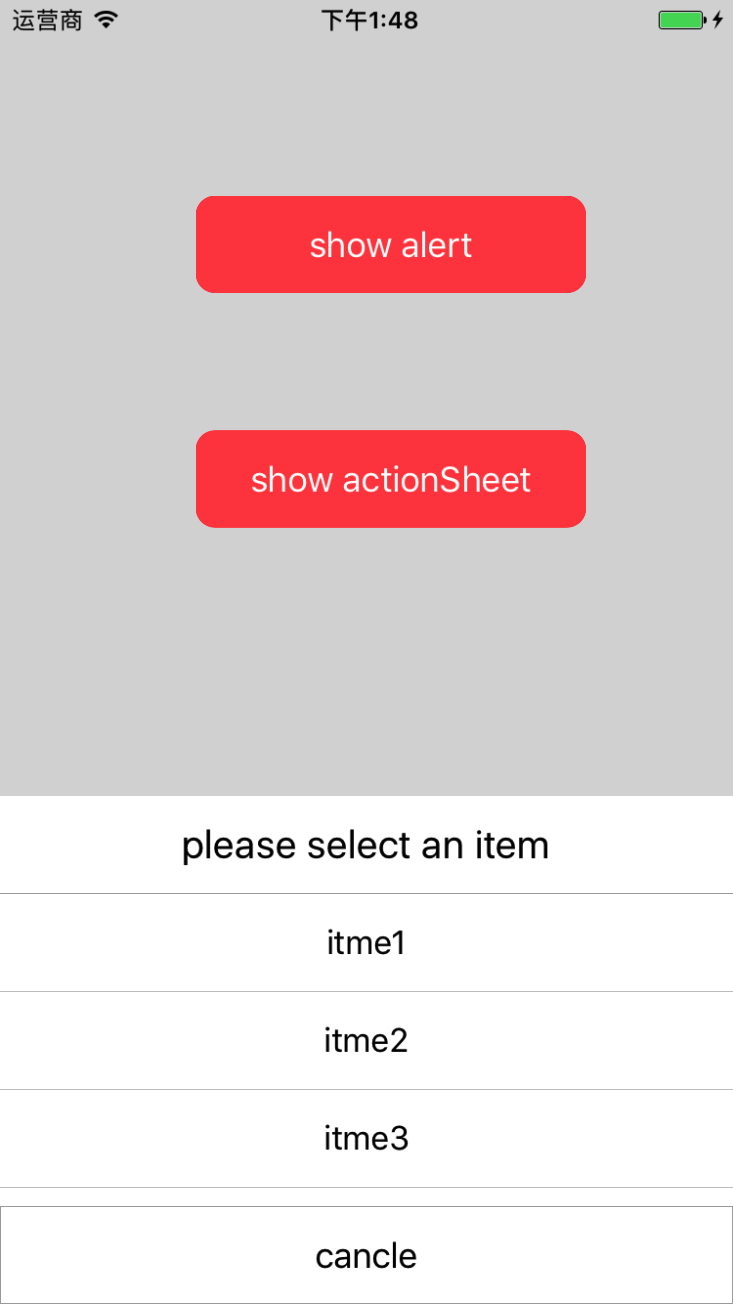
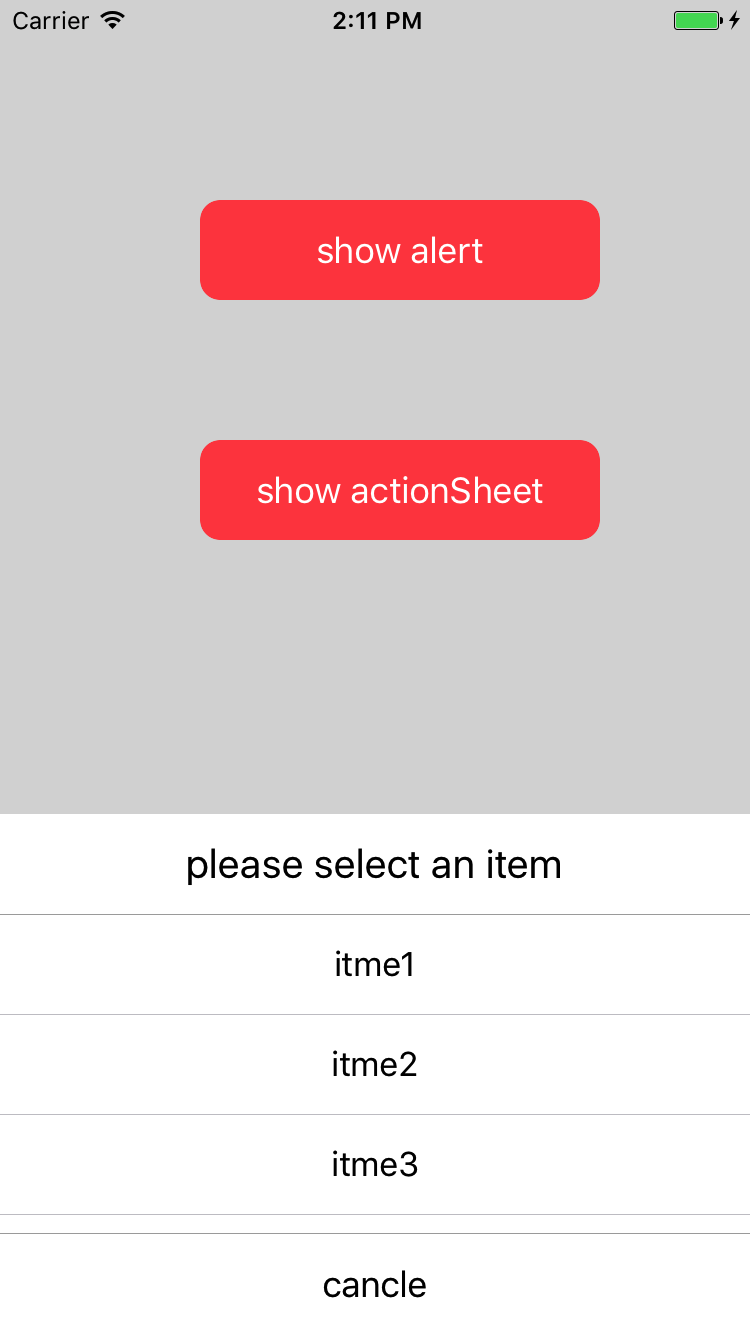
fix actionSheet
fix actionSheet

Changed region(s): [[0.0, 0.0, 0.1801, 0.0307], [0.4502, 0.0, 0.5703, 0.0307], [0.9905, 0.9202, 1.0, 1.0]]

diff --git a/ZZPopView/ZZActionSheetView.swift b/ZZPopView/ZZActionSheetView.swift
@@ -117,12 +117,18 @@ public class ZZActionSheetView: UIView,UITableViewDelegate,UITableViewDataSource
             make.height.equalTo(tableviewHeight)
         })
         
+        let btnUpLineView = UIView.init(frame: CGRect.init())
+        btnUpLineView.backgroundColor = UIColor.lightGray
+        self.addSubview(btnUpLineView)
+        
+        let btnDownLineView = UIView.init(frame: CGRect.init())
+        btnDownLineView.backgroundColor = UIColor.lightGray
+        self.addSubview(btnDownLineView)
+        
         self.cancleBtn = UIButton.init(type: .custom)
         self.cancleBtn?.setTitle("cancle", for: .normal)
         self.cancleBtn?.backgroundColor = .white
         self.cancleBtn?.setTitleColor(UIColor.black, for: .normal)
-        self.cancleBtn?.layer.borderWidth = 0.3
-        self.cancleBtn?.layer.borderColor = UIColor.lightGray.cgColor
         self.cancleBtn?.addTarget(self, action: #selector(self.cancleAction(sender:)), for: .touchUpInside)
         self.addSubview(self.cancleBtn!)
         
@@ -130,6 +136,18 @@ public class ZZActionSheetView: UIView,UITableViewDelegate,UITableViewDataSource
             make.left.right.equalTo(self)
             make.height.equalTo(cancleBtnHeight)
             make.bottom.equalTo(self.snp.bottom).offset(0)
+        }
+        
+        btnUpLineView.snp.makeConstraints { (make) in
+            make.left.right.equalTo(self)
+            make.height.equalTo(0.3)
+            make.bottom.equalTo((self.cancleBtn?.snp.top)!)
+        }
+        
+        btnDownLineView.snp.makeConstraints { (make) in
+            make.left.right.equalTo(self)
+            make.height.equalTo(0.3)
+            make.bottom.equalTo(self.snp.bottom)
         }
         
     }

diff --git a/ZZPopViewDemo/ZZPopView/ZZActionSheetView.swift b/ZZPopViewDemo/ZZPopView/ZZActionSheetView.swift
@@ -117,12 +117,18 @@ public class ZZActionSheetView: UIView,UITableViewDelegate,UITableViewDataSource
             make.height.equalTo(tableviewHeight)
         })
         
+        let btnUpLineView = UIView.init(frame: CGRect.init())
+        btnUpLineView.backgroundColor = UIColor.lightGray
+        self.addSubview(btnUpLineView)
+        
+        let btnDownLineView = UIView.init(frame: CGRect.init())
+        btnDownLineView.backgroundColor = UIColor.lightGray
+        self.addSubview(btnDownLineView)
+        
         self.cancleBtn = UIButton.init(type: .custom)
         self.cancleBtn?.setTitle("cancle", for: .normal)
         self.cancleBtn?.backgroundColor = .white
         self.cancleBtn?.setTitleColor(UIColor.black, for: .normal)
-        self.cancleBtn?.layer.borderWidth = 0.3
-        self.cancleBtn?.layer.borderColor = UIColor.lightGray.cgColor
         self.cancleBtn?.addTarget(self, action: #selector(self.cancleAction(sender:)), for: .touchUpInside)
         self.addSubview(self.cancleBtn!)
         
@@ -130,6 +136,18 @@ public class ZZActionSheetView: UIView,UITableViewDelegate,UITableViewDataSource
             make.left.right.equalTo(self)
             make.height.equalTo(cancleBtnHeight)
             make.bottom.equalTo(self.snp.bottom).offset(0)
+        }
+        
+        btnUpLineView.snp.makeConstraints { (make) in
+            make.left.right.equalTo(self)
+            make.height.equalTo(0.3)
+            make.bottom.equalTo((self.cancleBtn?.snp.top)!)
+        }
+        
+        btnDownLineView.snp.makeConstraints { (make) in
+            make.left.right.equalTo(self)
+            make.height.equalTo(0.3)
+            make.bottom.equalTo(self.snp.bottom)
         }
         
     }
